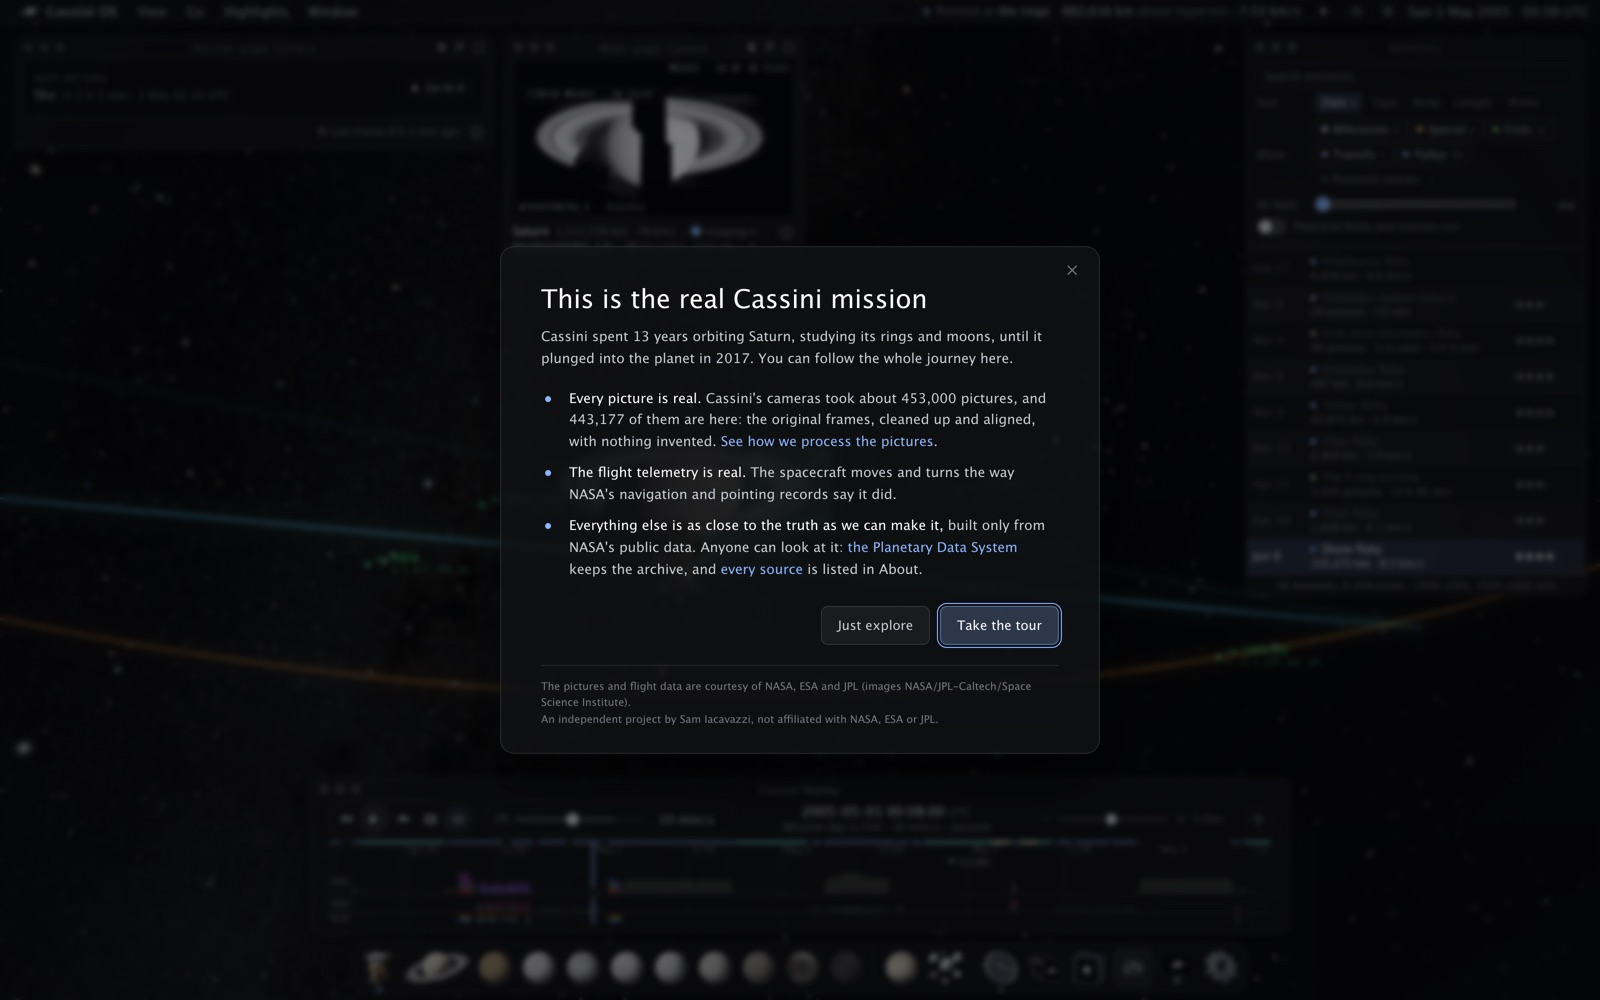
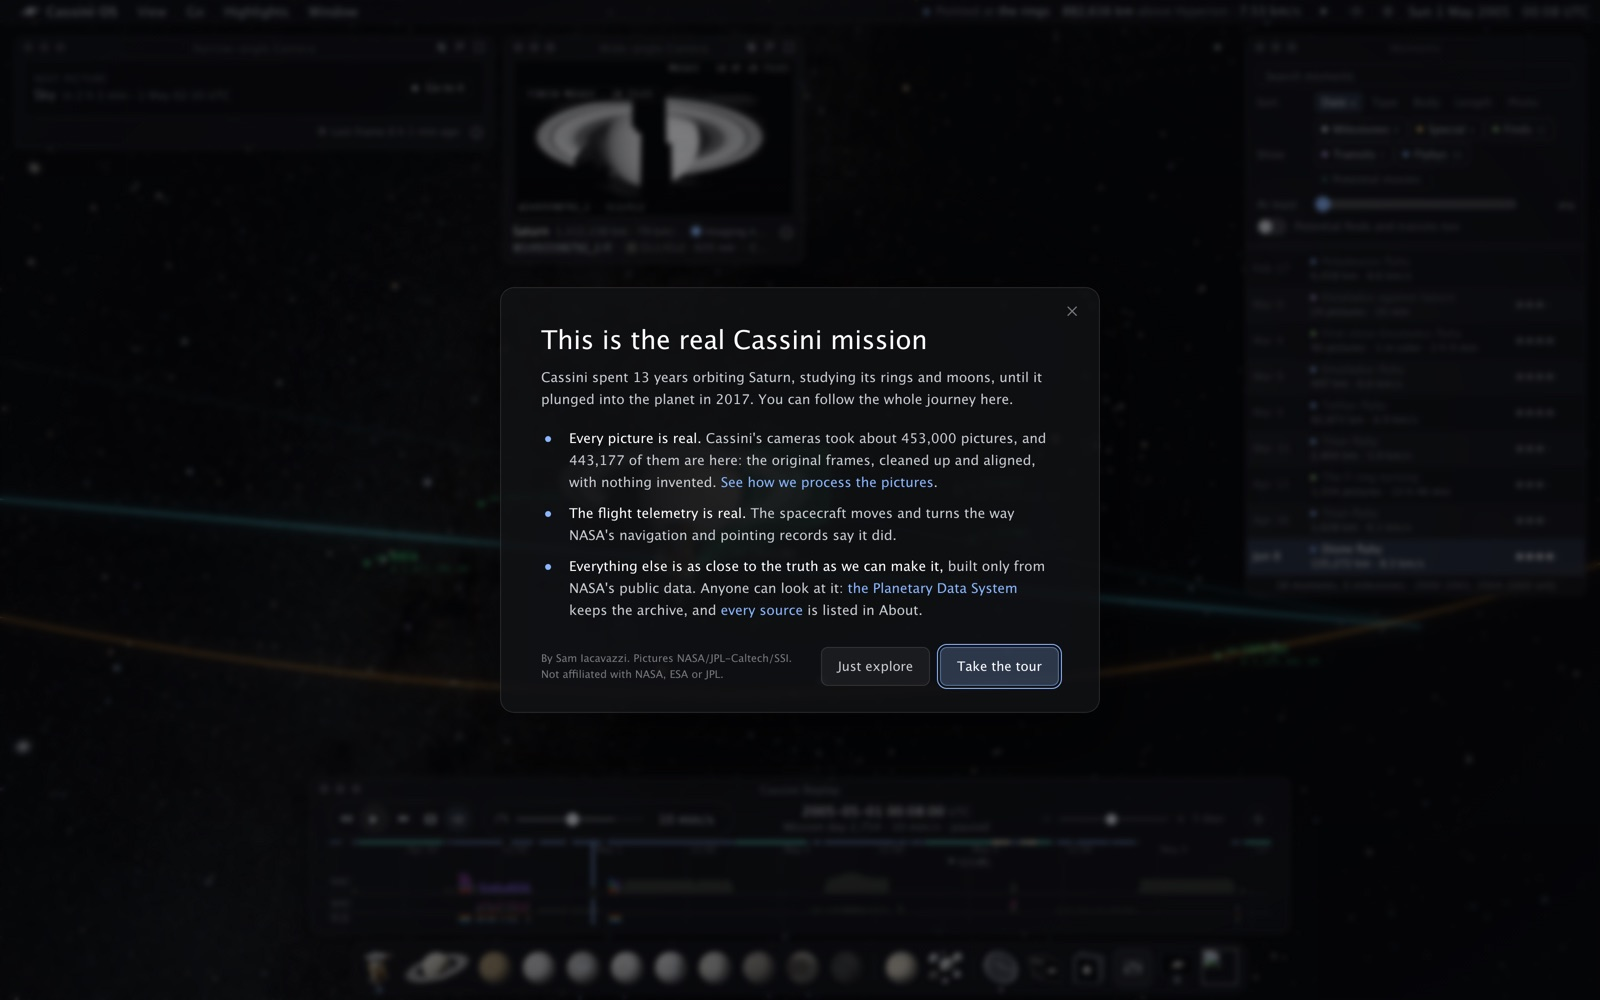
Welcome footer back beside the buttons, short: By Sam Iacavazzi, pictures NASA/JPL-Caltech/SSI, not affiliated

Changed region(s): [[0.3438, 0.279, 0.6875, 0.744], [0.75, 0.93, 0.7812, 0.992]]

diff --git a/web/cassini-os/index.html b/web/cassini-os/index.html
@@ -1734,8 +1734,7 @@ body.phone #about nav { flex-direction: row; border-right: 0; border-bottom: 1px
 #welcome .wpts a:hover { text-decoration: underline; }
 #welcome .wpts a:focus-visible { outline: 1px solid var(--q-accent); outline-offset: 1px; border-radius: 2px; }
 #welcome .wfoot { display: flex; align-items: center; gap: 10px; flex-wrap: wrap; }
-#welcome .wfoot { justify-content: flex-end; }
-#welcome .wcredit { margin: 20px 0 0; padding-top: 12px; border-top: 1px solid var(--q-line); font-size: 10.5px; line-height: 1.55; color: var(--q-dim); }
+#welcome .wfoot .wnote { flex: 1 1 180px; font-size: 10.5px; line-height: 1.45; color: var(--q-dim); }
 #welcome button { all: unset; box-sizing: border-box; cursor: default; padding: 8px 16px; border-radius: 7px; font-size: 13px; color: var(--q-text);
   border: 1px solid var(--q-line); background: rgba(255,255,255,.05); white-space: nowrap; text-align: center; }
 #welcome button:hover { color: #fff; background: rgba(255,255,255,.10); }
@@ -1748,7 +1747,7 @@ body.phone #welcome { padding: calc(env(safe-area-inset-top, 0px) + 12px) 10px c
 body.phone #welcome .wcard { padding: 26px 20px 18px; font-size: 14px; max-height: calc(100dvh - 24px - env(safe-area-inset-top, 0px) - env(safe-area-inset-bottom, 0px)); }
 body.phone #welcome h2 { font-size: 23px; }
 body.phone #welcome .wfoot { flex-direction: column-reverse; align-items: stretch; }
-body.phone #welcome .wcredit { text-align: center; margin-top: 16px; }
+body.phone #welcome .wfoot .wnote { flex: none; text-align: center; margin-top: 4px; }
 body.phone #welcome button:not(.wx) { padding: 11px 16px; font-size: 14.5px; }
 
 #tourhint { position: fixed; z-index: 1500; left: 0; top: 0; width: min(290px, calc(100vw - 24px)); box-sizing: border-box;
@@ -13708,7 +13707,7 @@ void main() {
   window.cassiniAbout = { open, addTab, esc, close: () => show(false), credits: CREDITS };
 
   // ---- which version this is: this page's build id (build.py writes it), and what the frame server says it serves ----
-  const BUILD = /*BUILD*/"45f5bc17d855";
+  const BUILD = /*BUILD*/"4565e2d9eb79";
   const FRAMES = (() => {                       // the frame server, chosen as the camera window chooses it
     const q = new URLSearchParams(location.search).get("frames");
     if (q) return q.replace(/\/$/, "");
@@ -13764,7 +13763,7 @@ void main() {
       "<b>The flight telemetry is real.</b> The spacecraft moves and turns the way NASA's navigation and pointing records say it did.",
       "<b>Everything else is as close to the truth as we can make it,</b> built only from NASA's public data. Anyone can look at it: <a href=\"https://pds-imaging.jpl.nasa.gov/\" target=\"_blank\" rel=\"noopener\">the Planetary Data System</a> keeps the archive, and <a href=\"#\" data-w=\"sources\">every source</a> is listed in About."
     ],
-    credit: "The pictures and flight data are courtesy of NASA, ESA and JPL (images NASA/JPL-Caltech/Space Science Institute).<br>An independent project by Sam Iacavazzi, not affiliated with NASA, ESA or JPL."
+    note: "By Sam Iacavazzi. Pictures <span style=\"white-space: nowrap\">NASA/JPL-Caltech/SSI.</span> Not affiliated with NASA, ESA or JPL."
   };
   function pictures() {
     try {
@@ -13784,8 +13783,8 @@ void main() {
       <h2 id="wtitle">${c.title}</h2>
       <p class="wlead">${c.lead}</p>
       <ul class="wpts">${c.points.map(p => `<li><span>${p.replace("{pictures}", n)}</span></li>`).join("")}</ul>
-      <div class="wfoot"><button data-w="explore">Just explore</button><button class="wtour" data-w="tour">Take the tour</button></div>
-      <p class="wcredit">${c.credit}</p>
+      <div class="wfoot"><span class="wnote">${c.note}</span>
+        <button data-w="explore">Just explore</button><button class="wtour" data-w="tour">Take the tour</button></div>
     </div>`;
   }
   ($("app") || document.body).append(el);

diff --git a/web/cassini-os/src/welcome.html b/web/cassini-os/src/welcome.html
@@ -31,8 +31,7 @@
 #welcome .wpts a:hover { text-decoration: underline; }
 #welcome .wpts a:focus-visible { outline: 1px solid var(--q-accent); outline-offset: 1px; border-radius: 2px; }
 #welcome .wfoot { display: flex; align-items: center; gap: 10px; flex-wrap: wrap; }
-#welcome .wfoot { justify-content: flex-end; }
-#welcome .wcredit { margin: 20px 0 0; padding-top: 12px; border-top: 1px solid var(--q-line); font-size: 10.5px; line-height: 1.55; color: var(--q-dim); }
+#welcome .wfoot .wnote { flex: 1 1 180px; font-size: 10.5px; line-height: 1.45; color: var(--q-dim); }
 #welcome button { all: unset; box-sizing: border-box; cursor: default; padding: 8px 16px; border-radius: 7px; font-size: 13px; color: var(--q-text);
   border: 1px solid var(--q-line); background: rgba(255,255,255,.05); white-space: nowrap; text-align: center; }
 #welcome button:hover { color: #fff; background: rgba(255,255,255,.10); }
@@ -45,7 +44,7 @@ body.phone #welcome { padding: calc(env(safe-area-inset-top, 0px) + 12px) 10px c
 body.phone #welcome .wcard { padding: 26px 20px 18px; font-size: 14px; max-height: calc(100dvh - 24px - env(safe-area-inset-top, 0px) - env(safe-area-inset-bottom, 0px)); }
 body.phone #welcome h2 { font-size: 23px; }
 body.phone #welcome .wfoot { flex-direction: column-reverse; align-items: stretch; }
-body.phone #welcome .wcredit { text-align: center; margin-top: 16px; }
+body.phone #welcome .wfoot .wnote { flex: none; text-align: center; margin-top: 4px; }
 body.phone #welcome button:not(.wx) { padding: 11px 16px; font-size: 14.5px; }
 </style>
 
@@ -76,7 +75,7 @@ body.phone #welcome button:not(.wx) { padding: 11px 16px; font-size: 14.5px; }
       "<b>The flight telemetry is real.</b> The spacecraft moves and turns the way NASA's navigation and pointing records say it did.",
       "<b>Everything else is as close to the truth as we can make it,</b> built only from NASA's public data. Anyone can look at it: <a href=\"https://pds-imaging.jpl.nasa.gov/\" target=\"_blank\" rel=\"noopener\">the Planetary Data System</a> keeps the archive, and <a href=\"#\" data-w=\"sources\">every source</a> is listed in About."
     ],
-    credit: "The pictures and flight data are courtesy of NASA, ESA and JPL (images NASA/JPL-Caltech/Space Science Institute).<br>An independent project by Sam Iacavazzi, not affiliated with NASA, ESA or JPL."
+    note: "By Sam Iacavazzi. Pictures <span style=\"white-space: nowrap\">NASA/JPL-Caltech/SSI.</span> Not affiliated with NASA, ESA or JPL."
   };
   function pictures() {
     try {
@@ -96,8 +95,8 @@ body.phone #welcome button:not(.wx) { padding: 11px 16px; font-size: 14.5px; }
       <h2 id="wtitle">${c.title}</h2>
       <p class="wlead">${c.lead}</p>
       <ul class="wpts">${c.points.map(p => `<li><span>${p.replace("{pictures}", n)}</span></li>`).join("")}</ul>
-      <div class="wfoot"><button data-w="explore">Just explore</button><button class="wtour" data-w="tour">Take the tour</button></div>
-      <p class="wcredit">${c.credit}</p>
+      <div class="wfoot"><span class="wnote">${c.note}</span>
+        <button data-w="explore">Just explore</button><button class="wtour" data-w="tour">Take the tour</button></div>
     </div>`;
   }
   ($("app") || document.body).append(el);
